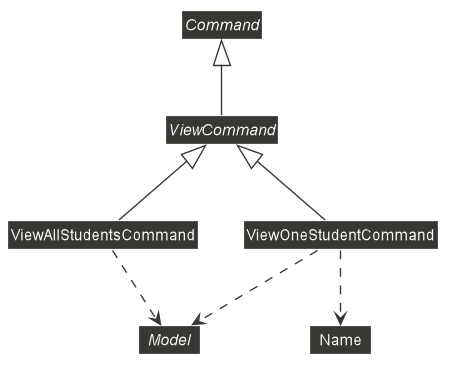
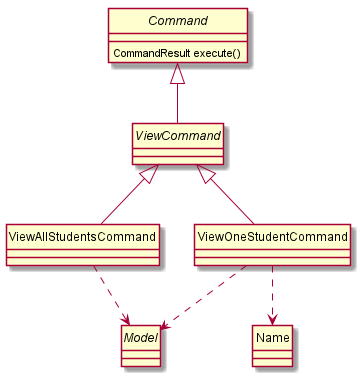
Change class diagrams to have similar color scheme

diff --git a/docs/DeveloperGuide.md b/docs/DeveloperGuide.md
@@ -220,6 +220,7 @@ Commands.
 
 Now we will go into how the `View All Students Feature` works, the following is a sequence diagram modelling the
 interaction between `ViewAllStudentsCommand`, `Model` and `CommandResult`.
+
 ![Sequence Diagram of View All Students](images/ViewAllStudentsSequenceDiagram.png)
 
 * The `ViewAllStudentsCommand`'s`execute` method is first called with a model passed as an argument.
@@ -242,7 +243,7 @@ Consultations Commands. There are three variants (view all consultations, view p
   consultations) but they all share the same logic.
 
 ![Class Diagram of the three View Consultations Commands](images/ViewConsultationsClassDiagram.png)
-* The abstract class `ViewCommand` extends from the abstract class `Command`
+* The abstract class `ViewCommand` extends from the abstract class `Command`.
 * Both `ViewConsultationCommand` and `ViewPastConsultationCommand` and `ViewUpcomingConsultationCommand` extend
 from the abstract class `ViewCommand`
 * Both `ViewConsultationCommand` and `ViewPastConsultationCommand` and `ViewUpcomingConsultationCommand` take in a
@@ -251,6 +252,7 @@ Model object for the execute method, as such both have a dependency on Model.
 
 Now we will go into how the `View Consultations Feature` works, the following is a sequence diagram modelling the
 interaction between `ViewConsultationsCommand`, `Model` and `CommandResult`.
+
 ![Sequence Diagram of a general View Consultation](images/ViewConsultationsSequenceDiagram.png)
 
 * The `ViewConsultationsCommand`'s`execute` method is first called with a model passed as an argument.
@@ -259,11 +261,22 @@ interaction between `ViewConsultationsCommand`, `Model` and `CommandResult`.
  `viewAllConsultationsCommand`.
 * The `CommandResult` object is returned to the caller of `execute`.
 
-## Structure of Add Command
-The following diagram shows the overview of AddCommand Class Diagram:
-![Class Diagram of Add Commands](images/AddCommandClassDiagram.png)
 
-In the AddCommand class
+## Add Command
+### Structure of Add Command
+The following diagram shows the overview of the AddComand Class Diagram:
+
+![Sequence Diagram of Add Commands](images/AddCommandClassDiagram.png)
+
+### Add Task Feature
+The following diagram shows the overview of `AddCommand` Class Diagram which has a similar structure as other
+`Commands`:
+
+![Class Diagram of Add Commands](images/AddTaskClassDiagram.png)
+
+* The class `AddCommand` extends from the abstract class `Command`.
+* `AddCommand` class interacts with `Model` and `Task` related classes.
+* `Todo`, `Event` and `Deadline` are classes that extend from from abstract class `Task`.
 
 ### Add Task Feature
 In this section, we will introduce how the `Add Task Feature` works. We can add 3 different types of tasks, namely
@@ -272,12 +285,17 @@ In this section, we will introduce how the `Add Task Feature` works. We can add 
 a task that requires completion at a particular point in time; `Deadline` is a task that requires completion before a
 particular point in time.
 
-The sequence diagram for the Add Task Command is shown below:
+The sequence diagram for the Add Todo Command is shown below:
+
 ![Sequence Diagram of Add Task](images/AddTaskSequenceDiagram.png)
 
+_This sequence diagram applies to other `Add` commands such as adding `Event` and `Deadline`._
 * The `AddCommand`'s`execute` method is first called with a model passed as an argument.
-* `execute` method then calls `AddCommandParser`'s `parse` method with a predicate which parses the task.
-* A `CommandResult` object is created with the message "Task added"" and returned to `AddCommand`.
+* `execute` method then calls `AddCommandParser`'s `hasTodo` method to check if the task is already contained within the
+Model class.
+* If the task is already contained within the Model class, `AddCommand` will throw an Exception `CommandException`.
+* Else, `AddCommand` will add the new `Task` to the Model class and return a result `CommandResult` containing a
+`SUCCESS` message.
 
 --------------------------------------------------------------------------------------------------------------------
 
